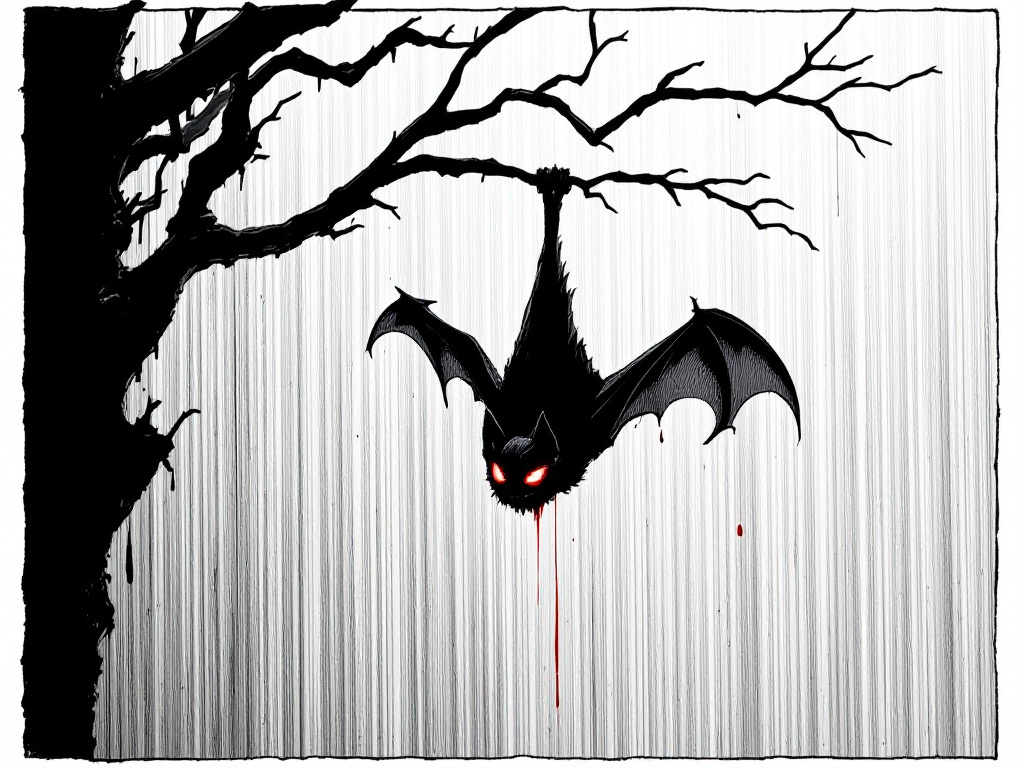
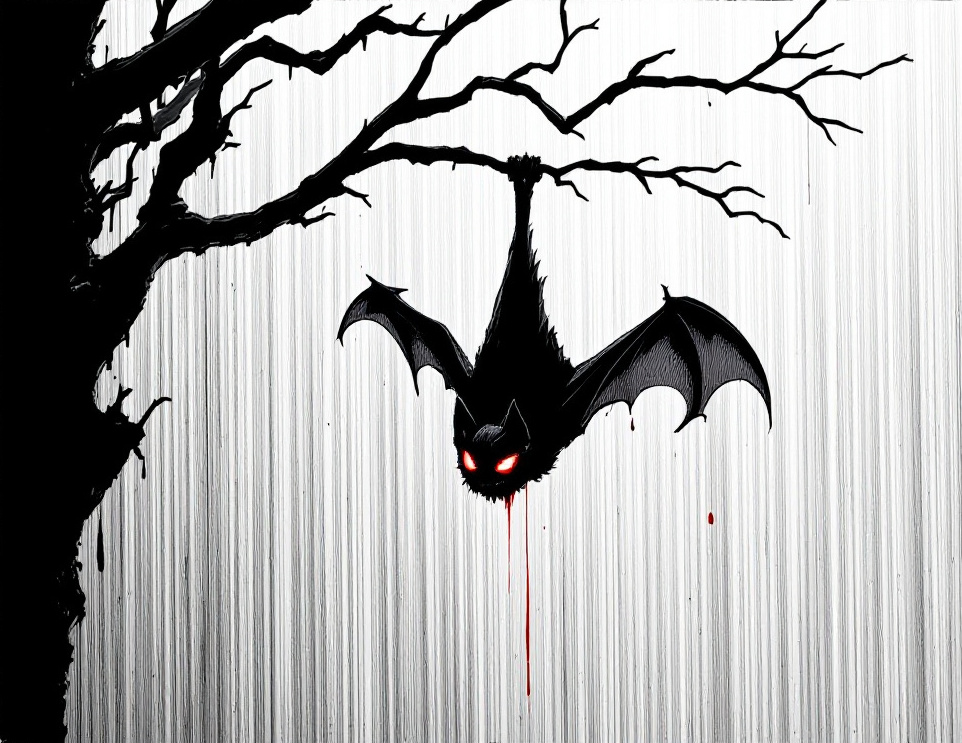
feat: can select multiple color

diff --git a/src/components/card-configurator.tsx b/src/components/card-configurator.tsx
@@ -124,17 +124,47 @@ export function CardConfigCard(props: CardConfigCardProps) {
       </label>
       <label>
         Color:
-        <select
-          value={props.cardConfig.color}
-          onChange={(e) =>
-            props.onChange({
-              ...props.cardConfig,
-              color: e.currentTarget.value as CardColor,
-            })
-          }
-        >
-          <For each={CARD_COLORS}>{(c) => <option>{c}</option>}</For>
-        </select>
+        <div class="multi-select-container">
+          <select
+            value={props.cardConfig.color[0]}
+            onChange={(e) =>
+              props.onChange({
+                ...props.cardConfig,
+                color: props.cardConfig.color.map((c, index) =>
+                  index === 0 ? (e.currentTarget.value as CardColor) : c,
+                ),
+              })
+            }
+          >
+            <For each={CARD_COLORS}>{(c) => <option>{c}</option>}</For>
+          </select>
+          <select
+            value={props.cardConfig.color[1]}
+            onChange={(e) =>
+              props.onChange({
+                ...props.cardConfig,
+                color: props.cardConfig.color.map((c, index) =>
+                  index === 1 ? (e.currentTarget.value as CardColor) : c,
+                ),
+              })
+            }
+          >
+            <For each={CARD_COLORS}>{(c) => <option>{c}</option>}</For>
+          </select>
+          <select
+            value={props.cardConfig.color[2]}
+            onChange={(e) =>
+              props.onChange({
+                ...props.cardConfig,
+                color: props.cardConfig.color.map((c, index) =>
+                  index === 2 ? (e.currentTarget.value as CardColor) : c,
+                ),
+              })
+            }
+          >
+            <For each={CARD_COLORS}>{(c) => <option>{c}</option>}</For>
+          </select>
+        </div>
       </label>
       <InputField
         label="Count"
@@ -168,8 +198,6 @@ function InputField(props: InputFieldProps) {
     </label>
   );
 }
-
-// onSelect={cardConfigPatcher('image')}>
 
 function powerOrToughnessConverter(x: string): CardConfig["power"] {
   if (x === "*") {

diff --git a/src/index.css b/src/index.css
@@ -130,10 +130,17 @@
           justify-content: space-between;
           gap: 1rem;
 
-          input,
-          textarea,
-          select {
+          & > input,
+          & > textarea,
+          & > select,
+          & > .multi-select-container {
             width: 50%;
+          }
+
+          .multi-select-container {
+            display: flex;
+            flex-direction: column;
+            align-items: stretch;
           }
         }
       }
@@ -250,6 +257,8 @@ article.proxy[data-style="black-and-red"] {
     top: 2rem;
     left: -0.25rem;
     background-color: transparent;
+    display: flex;
+    flex-direction: column;
     span[data-color] {
       position: relative;
       display: inline-block;
@@ -259,6 +268,7 @@ article.proxy[data-style="black-and-red"] {
       border-radius: 50%;
       background-color: white;
       border: 1px solid var(--style--color--red);
+      margin-bottom: -0.25rem;
 
       &:after {
         content: "";

diff --git a/src/services/store.tsx b/src/services/store.tsx
@@ -14,9 +14,9 @@ export interface StoreData {
 
 type TextAlign = "left" | "center" | "right" | "justify";
 export const CARD_COLORS = [
+  "colorless",
   "black",
   "blue",
-  "colorless",
   "green",
   "red",
   "white",
@@ -37,7 +37,7 @@ export interface CardConfig {
   textAlign: TextAlign;
   power: number | "*";
   toughness: number | "*";
-  color: CardColor;
+  color: CardColor[];
   count: number;
   style: "black-and-red";
 }
@@ -52,7 +52,7 @@ export function buildEmptyCardConfig(): CardConfig {
     textAlign: "center",
     power: 0,
     toughness: 0,
-    color: "colorless",
+    color: ["colorless", "colorless", "colorless"],
     count: 1,
     style: "black-and-red",
   };

diff --git a/src/components/card-preview.tsx b/src/components/card-preview.tsx
@@ -26,7 +26,9 @@ export function ProxyCard(props: ProxyCardProps) {
   return (
     <article class={"proxy"} attr:data-style={props.proxy.style}>
       <div class="color-container">
-        <span attr:data-color={props.proxy.color}></span>
+        <For each={props.proxy.color}>
+          {(c) => <span attr:data-color={c}></span>}
+        </For>
       </div>
       <header>{props.proxy.name}</header>
       <img src={props.proxy.image} />

diff --git a/TODO.md b/TODO.md
@@ -10,16 +10,18 @@
 - [x] Add "black and red" style
 - [x] Can define color (blue for example)
 - [x] Add my logo like "extension"
-- [ ] Support multicolor (blue + red for example)
+- [x] Support multicolor (blue + red for example)
+- [ ] Can scroll on preview without scolling page
+- [ ] Can focus on some configuration
 - [ ] Add custom fonts
-- [ ] Add standard magic style + style selector
-- [ ] Can export / import configuration
-- [ ] Add help for "cost tags" (`{(1)}` and `{(tap)}`)
 - [ ] Add a checkbox to add/remove power and toughness
 - [ ] Add duplicate button
 - [ ] Add a "default" image
-- [ ] Can add a custom image instead of predefined
+- [ ] Can export / import configuration
+- [ ] Add help for "cost tags" (`{(1)}` and `{(tap)}`)
 - [ ] Can reorder configs
+- [ ] Add standard magic style + style selector
+- [ ] Can add a custom image instead of predefined
 
 ## Technical improvement
 
